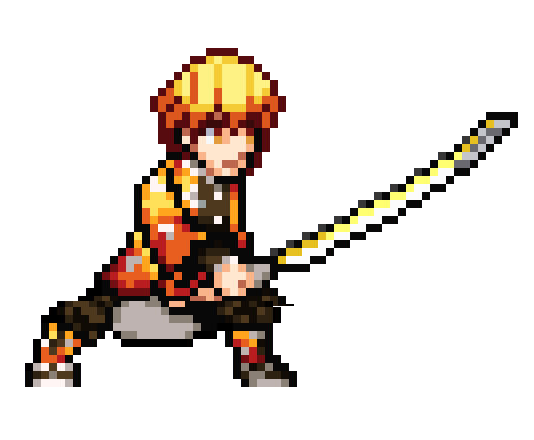
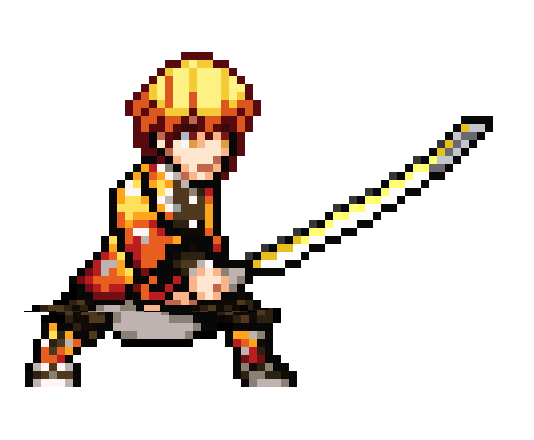
all sprites showing up but need demon sprites to leave after they are done

Changed region(s): [[0.0599, 0.0886, 0.9888, 0.7091]]

diff --git a/DemonSlayer-Game/js/Classes.js b/DemonSlayer-Game/js/Classes.js
@@ -18,7 +18,7 @@ const tanjiroAttackOptions = {
 };
 const zenitsuAttackOptions = {
     outputQuestion: "Which attack will you use?",
-    buttons: ["Thunder Clap", "Rice Spirit", "Heat Lighting", "God Speed"],
+    buttons: ["Thunder Clap", "Rice Spirit", "Heat Lightning", "God Speed"],
     responseFunc: null
 };
 const inosukeAttackOptions = {
@@ -28,7 +28,7 @@ const inosukeAttackOptions = {
 };
 
 let playerAttackInfo = "";
-const zenitsuAttackInfo = "Thunder Clap: \n Damage: 40 Miss Chance: 10% Bleed: 5dmg \n\n Rice Spirit: \n Damage: 15 Miss Chance: 8% Healing: 35hp \n\n Heat Lighting: \n Damage: 10 Miss Chance: 5% Crit Chance: 75% \n\n God Speed: \n Damage: 280 Miss Chance: 75%";
+const zenitsuAttackInfo = "Thunder Clap: \n Damage: 40 Miss Chance: 10% Bleed: 5dmg \n\n Rice Spirit: \n Damage: 15 Miss Chance: 8% Healing: 35hp \n\n Heat Lightning: \n Damage: 10 Miss Chance: 5% Crit Chance: 75% \n\n God Speed: \n Damage: 280 Miss Chance: 75%";
 const inousukeAttackInfo = "Rip and Tear: \n Damage: 20 Miss Chance: 15% Bleed: 20dmg \n\n Pierce: \n Damage: 35 Miss Chance 5% Healing: 10hp \n\n Crazy Cutting: \n Damage: 15 Miss Chance 10% Crit Chance: 60% \n\n Whirling Fangs: Damage: 150 Miss Chance 50%";
 const tanjiroAttackInfo = "Water Wheel: \n Damage: 35 Miss chance: 20% Bleed: 10dmg \n\n Twisting Whirlpool: \n Damage: 20, Miss chance: 10% Healing: 20hp \n\n Striking Tide: \n Damage: 10 Miss chance: 2% Crit Chance: 35% \n\nConstant Flux: \n Damage: 200 Miss chance: 66%";
 const opener = {
@@ -53,7 +53,6 @@ class MenuOption {
     }
 }
 
-
 class Player {
     constructor(name, health) {
         this.name = name;
@@ -66,6 +65,8 @@ class Player {
         this.curse = false;
         this.poisonedRounds = 0;
         this.curseRounds = 0;
+        this.height = 212;
+        this.width = 156;
         if (name == "Tanjiro") {
             this.attacks = {
                 "water wheel": { damage: 35, missChance: 20, bleedValue: 10 },
@@ -80,7 +81,7 @@ class Player {
             this.attacks = {
                 "thunder clap": { damage: 40, missChance: 10, bleedValue: 5 },
                 "rice spirit": { damage: 15, missChance: 8, healValue: 35 },
-                "heat lighting": { damage: 10, missChance: 5, critChance: 75 },
+                "heat lightning": { damage: 10, missChance: 5, critChance: 75 },
                 "god speed": { damage: 280, missChance: 75 },
             }
             this.attackOptions = zenitsuAttackOptions;
@@ -111,7 +112,7 @@ class Player {
         zenitsuAttackOptions.responseFunc = attack => {
             if (attack == "thunder clap") {
                 demonGuy.bleed = true;
-                demonguy.bleedRounds = 4;
+                demonGuy.bleedRounds = 4;
             }
             if (attack == "rice spirit") {
                 chosenChar.changeHealth(-35)
@@ -128,29 +129,30 @@ class Player {
             }
             f(attack)
         }
-        opener.question(playerAttackOptions)
-        populateInfoBox(playerAttackInfo)
+        opener.question(this.attackOptions)
+        populateInfoBox(this.playerAttackInfo)
     }
     x = 25
     y = 335
-    draw = function () {
-        ctx.clearRect(0, 0, 800, 500)
-        ctx.drawImage(this.img, this.x, this.y)
+    draw() {
+        this.currentImg = (this.currentImg + 1) % this.imgQueue.length
+        this.img = this.imgQueue[this.currentImg]
+        ctx.drawImage(this.img, this.x, this.y, this.width, this.height)
     }
     imgQueue = []
     currentImg = 0
 
     startAnimation(animation) {
-        if (animation == "idle") {
+        this.currentImg = 0
+        if (animation == "Tanjiro idle") {
             this.imgQueue = imageLoader
-            this.currentImg = 0
         }
-    }
-    playAnimation() {
-        setTimeout(() => this.playAnimation(), 200)
-        this.currentImg = (this.currentImg + 1) % this.imgQueue.length
-        this.img = this.imgQueue[this.currentImg]
-        this.draw()
+        if (animation == "Zenitsu idle") {
+            this.imgQueue = imageLoaderZ
+        }
+        if (animation == "Inosuke idle") {
+            this.imgQueue = imageLoaderI
+        }
     }
     changeHealth(num) {
         this.health -= num
@@ -188,6 +190,8 @@ class Enemy {
         this.moneyDropped = moneyDropped;
         this.bleed = false;
         this.bleedRounds = 0;
+        this.height = 212;
+        this.width = 156;
     }
     dealDamage() {
         return Math.round(Math.random() * (this.damageMax - this.damageMin) + this.damageMin);
@@ -207,26 +211,27 @@ class Enemy {
             money.innerText = `$${chosenChar.money}`
         }
     }
-    x = canvas.width - 200; //1340
-    y = 280
-    draw = function () {
-        //ctx.clearRect(0, 0, 200, 500)
-        ctx.drawImage(this.img, this.x, this.y)
+    x = canvas.width - 200; 
+    y = 335
+    draw() {
+        this.currentImg = (this.currentImg + 1) % this.imgQueue.length
+        this.img = this.imgQueue[this.currentImg]
+        ctx.drawImage(this.img, this.x, this.y, this.width, this.height)
     }
     imgQueue = []
     currentImg = 0
 
     startAnimation(animation) {
-        if (animation == "idle") {
+        this.currentImg = 0
+        if (animation == "Lackey idle") {
             this.imgQueue = demonImageLoader
-            this.currentImg = 0
         }
-    }
-    playAnimation() {
-        setTimeout(() => this.playAnimation(), 200)
-        this.currentImg = (this.currentImg + 1) % this.imgQueue.length
-        this.img = this.imgQueue[this.currentImg]
-        this.draw()
+        if (animation == "MiniBoss idle") {
+            this.imgQueue = miniBossImageLoader
+        }
+        if( animation == "MUZAN idle") {
+            this.imgQueue = muzanImageLoader
+        }
     }
 }
 
@@ -238,6 +243,8 @@ nextEnemy()
 
 function nextEnemy() {
     demonGuy = demons.shift()
+    demonGuy.startAnimation(`${demonGuy.name} idle`)
+    winterForrest.render.push(demonGuy)
 }
 
 

diff --git a/DemonSlayer-Game/js/DemonSlayer.js b/DemonSlayer-Game/js/DemonSlayer.js
@@ -54,14 +54,14 @@ for (i = 0; i < allButtons.length; i++) {
 function startGame() {
     populateInfoBox((`Oh no, ${chosenChar.name} has encountered a blood starved Demon! Prepare yourself!`))
     console.log(tanjiro)
-    chosenChar.startAnimation("idle")
-    chosenChar.playAnimation()
-    demonGuy.startAnimation("idle")
-    demonGuy.playAnimation()
+    chosenChar.startAnimation(`${chosenChar.name} idle`)
     opener.question(startGameOptions)
     slayerHealthbar.innerText = chosenChar.health + "HP";
     money.innerText = `$${chosenChar.money}`
     demonHealthbar.innerText = demonGuy.health + "HP";
+    winterForrest.render.push(chosenChar)
+    winterForrest.draw()
+
 }
 
 function runOption() {
@@ -99,6 +99,14 @@ function demonSlayerAttack() {
         } else {
             let crit = false;
             if (attack == "striking tide" && (Math.round(Math.random() * 100)) < chosenChar.attacks["striking tide"].critChance) {
+                crit = true;
+                damageNum *= 8;
+            }
+            if (attack == "crazy cutting" && (Math.round(Math.random() * 100)) < chosenChar.attacks["crazy cutting"].critChance) {
+                crit = true;
+                damageNum *= 8;
+            }
+            if (attack == "heat lightning" && (Math.round(Math.random() * 100)) < chosenChar.attacks["heat lightning"].critChance) {
                 crit = true;
                 damageNum *= 8;
             }
@@ -140,14 +148,14 @@ function demonAttack() {
         }
     }
     if (demonGuy.extraAbility == "poison") {
-        if (chosenChar.poison == false && Math.random() <= .15) {
+        if (chosenChar.poison == false && Math.random() <= .10) {
             chosenChar.poison = true;
             chosenChar.poisonedRounds = 6
             populateInfoBox(`${chosenChar.name} has been poisoned for 5 turns`)
         }
     }
     if (demonGuy.extraAbility == "curse") {
-        if (chosenChar.curse == false && Math.random() <= .40) {
+        if (chosenChar.curse == false && Math.random() <= .30) {
             chosenChar.curse = true;
             chosenChar.curseRounds = 4
             populateInfoBox(`${chosenChar.name} has been cursed! If he does not kill the enemy or use an item that removes status effects, he will die in 3 turns`)

diff --git a/DemonSlayer-Game/index.html b/DemonSlayer-Game/index.html
@@ -28,17 +28,25 @@
             Your demon slayer has died
         </p>
         <p>
-            Unfortunatly this is not uncommon 
+            Unfortunatly this is not uncommon, in this profession
         </p>
         <button id='replay'>Replay</button>
+    </div>
+    <div id="youWin" class="hide">
+        <p>
+            You have defeated the Demon King Muzan!
+        </p>
+        <p>
+            The world is safe, but you are now out of a job, I hoped you saves up...
+        </p>
     </div>
 
     <div id="charSelect" class="hide">
         <button id="Zenitsu">
-            <img src="img/TransperantZ1.png" style="height: 250px;">
+            <img src="img/TransperantZ1.png">
         </button>
-        <button id="Tanjiro"><img src="img/Tanjiro.png" style="height: 250px;"></button>
-        <button id="Inosuke"><img src="img/Inouske1.png" style="height: 250px;"></button>
+        <button id="Tanjiro"><img src="img/Tanjiro.png"></button>
+        <button id="Inosuke"><img src="img/Inouske1.png"></button>
     </div>
     <div id="gameWrapper" class="hide">
         <div id="healthbars">
@@ -72,21 +80,22 @@
             <img src="img/Inouske1.png" alt=""/>
             <img src="img/Inouske2.png" alt=""/>
         </div>
-        <div id="demonImageLoader" class="loader">
+        <div id="demonImageLoader" class="loader" class="demon">
             <img src="img/demon sprite.png" alt=""/>
             <img src="img/demon sprite2.png" alt=""/>
         </div>
-        <div id="miniBossImageLoader" class="loader">
+        <div id="miniBossImageLoader" class="loader" class="demon">
             <img src="img/Miniboss1.png" alt=""/>
             <img src="img/Miniboss2.png" alt=""/>
         </div>
-        <div id="muzanImageLoader" class="loader">
+        <div id="muzanImageLoader" class="loader" class="demon">
             <img src="img/muzan1.png" alt=""/>
             <img src="img/muzan2.png" alt=""/>
         </div>
     </div>
-    <script src="js/Classes.js" type="application/javascript"></script>
-    <script src="js/DemonSlayer.js" type="application/javascript"></script>
+    <script src="js/Stage.js"></script>
+    <script src="js/Classes.js"></script>
+    <script src="js/DemonSlayer.js"></script>
 </body>
 
 </html>

diff --git a/DemonSlayer-Game/js/Stage.js b/DemonSlayer-Game/js/Stage.js
@@ -1,0 +1,13 @@
+class Stage {
+    render = []
+    draw(){
+        ctx.clearRect(0, 0, canvas.width, canvas.height)
+        for (let i= 0; i < this.render.length; i++){
+            this.render[i].draw();
+        }
+        setTimeout(() => this.draw(), 200)
+    }
+}
+
+const winterForrest = new Stage() 
+

diff --git a/DemonSlayer-Game/styles.css b/DemonSlayer-Game/styles.css
@@ -33,6 +33,14 @@
     opacity: 0.7;
 }
 
+#charSelect img{
+    height: 250px;
+}
+
+/* .demon img{
+    height: 250px;
+} */
+
 #charSelect button:hover{
     opacity: 1;
 }

diff --git a/DemonSlayer-Game/README.md b/DemonSlayer-Game/README.md
@@ -1,10 +1,13 @@
 ## to-do:
-make other 2 characters appear in game when chosen
 make the demon sprites appear after each death
 make game over screen/you win screen
-one global object calls draw on all stage objects(chosenChar + demonGuy) 
+make status effects show up 
+make some attack animations if you have time
 
 
+make character sprites populate- done
+one global object calls draw on all stage objects(chosenChar + demonGuy)-done 
+make other 2 characters appear in game when chosen- done
 create demon characters sprite - done
 make attacks and attack info for other chars- done
 money counter does not go down if an item is bought- done
